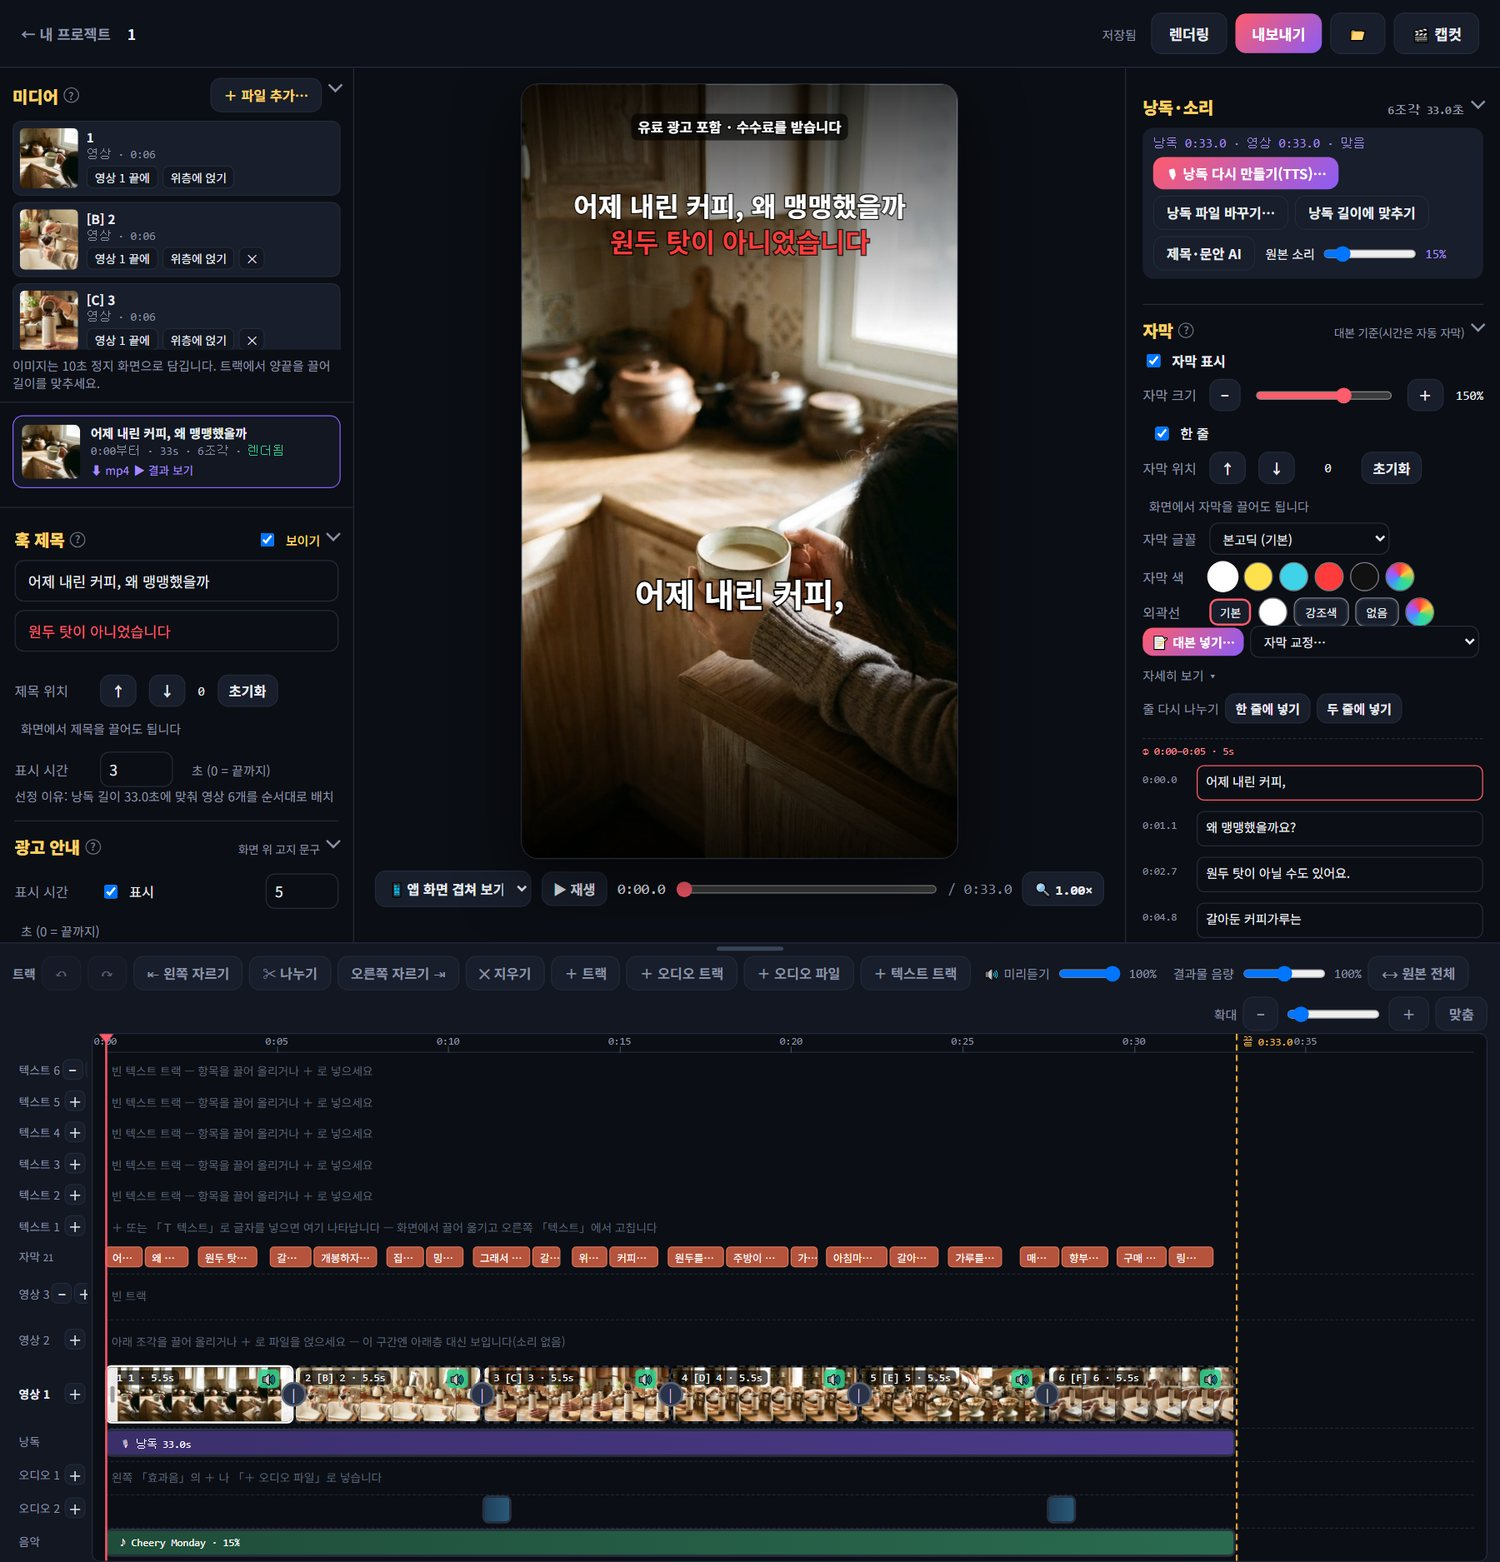
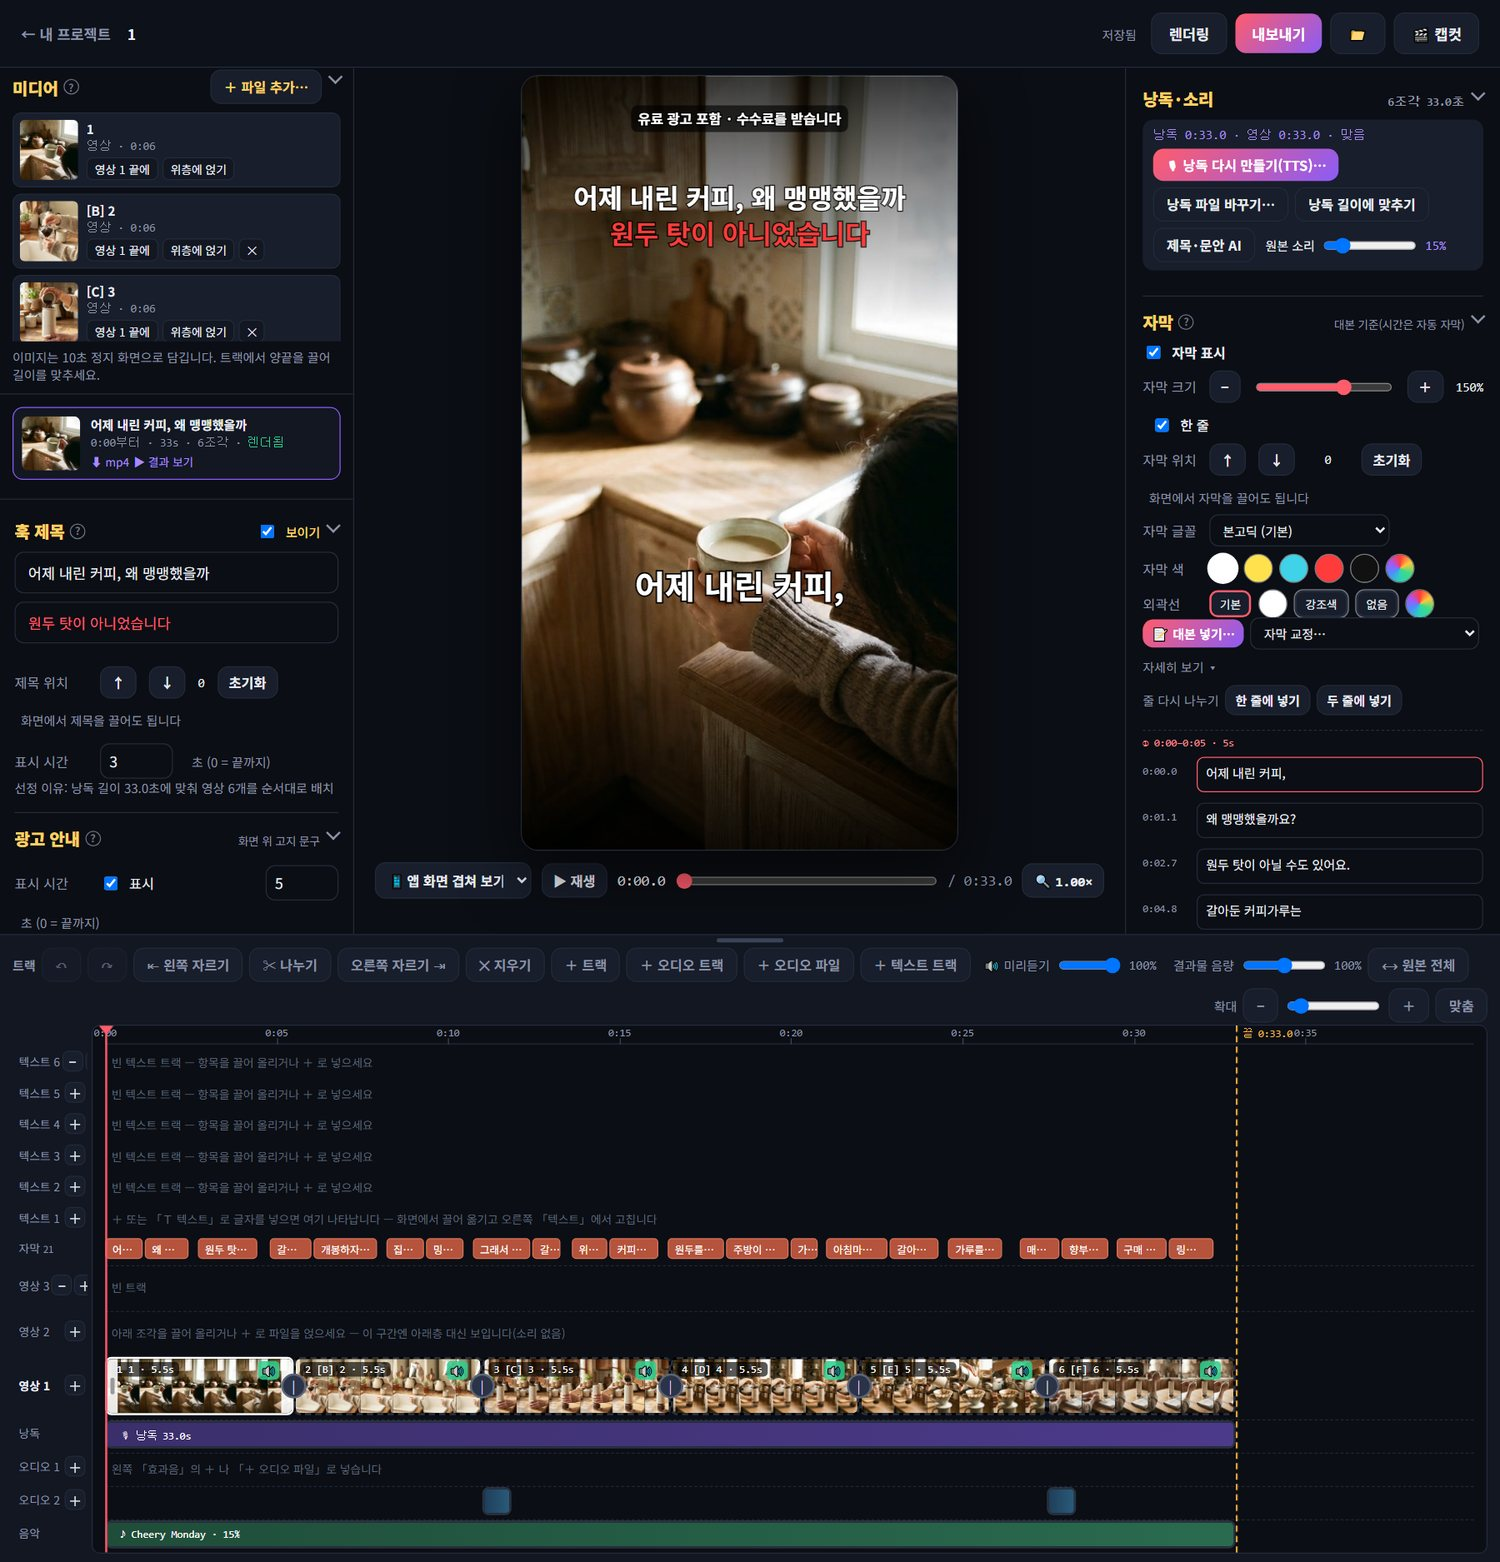
설명서: 자동 저장·미리보기 클릭 재생·텍스트 바로 고치기·가로 롱폼 차이 명시

diff --git a/guide/index.html b/guide/index.html
@@ -148,6 +148,12 @@ details{background:var(--bg2);border:1px solid var(--line);border-radius:10px;pa
 <h2 id="editor">5. <em>편집기</em> 둘러보기</h2>
 <div class="shot"><img src="img/04_editor.jpg" alt="편집기 — 왼쪽 설정 패널, 가운데 미리보기, 오른쪽 낭독·자막 패널, 아래 트랙" loading="lazy"><div class="cap">편집기 — 왼쪽 설정 패널, 가운데 미리보기, 오른쪽 낭독·자막 패널, 아래 트랙</div></div>
 <p>화면은 네 부분입니다. <b>왼쪽 패널</b>(칸별 설정) · <b>가운데 미리보기</b>(재생, 끌어서 옮기기) · <b>오른쪽 패널</b>(낭독·자막) · <b>아래 트랙</b>(캡컷식 타임라인). 무엇을 바꾸든 자동 저장됩니다(위쪽 「저장됨」 표시).</p>
+<div class="note"><b>자동 저장</b> — 저장 단추가 따로 없습니다. 무엇이든 바꾸고 손을 떼면 <b>0.7초 뒤</b> 프로젝트 폴더에 저장되고, 위쪽 표시가 「저장 중…」 → 「저장됨」으로 바뀝니다. 「저장됨」이 보이면 창을 닫아도 됩니다. 실행 취소(Ctrl+Z)도 같은 단위로 되돌립니다. 렌더한 결과 mp4 는 「렌더링」·「내보내기」를 눌러야 만들어집니다.</div>
+<ul>
+<li><b>미리보기 클릭</b> — 영상을 한 번 누르면 재생, 다시 누르면 정지. 가운데에 ▶/❚❚ 가 잠깐 떴다 사라집니다. 끌면 재생이 아니라 영상 위치 이동입니다.</li>
+<li><b>텍스트 두 번 클릭</b> — 미리보기의 텍스트를 두 번 누르면 그 자리에서 바로 글자를 고칩니다. 바깥을 누르거나 Esc 로 끝납니다.</li>
+<li><b>트랙 빨간 막대</b> — 잡고 화면 끝으로 끌면 트랙이 그쪽으로 따라 흐릅니다.</li>
+</ul>
 
 <h3 id="p-media">미디어 · 훅 제목 · 광고 안내 · 채널 · 업로드 문안</h3>
 <div class="shot"><img src="img/05_hook_aff.jpg" alt="훅 제목 칸과 그 아래 광고 안내 칸" loading="lazy"><div class="cap">훅 제목 칸과 그 아래 광고 안내 칸</div></div>
@@ -178,6 +184,7 @@ details{background:var(--bg2);border:1px solid var(--line);border-radius:10px;pa
 </ul>
 
 <h3 id="p-design">디자인</h3>
+<p class="small dim">세로 쇼츠(쇼핑 쇼츠·롱폼→쇼츠)에만 있습니다. <b>가로 롱폼 편집</b>은 영상이 16:9 화면을 꽉 채우는 고정 구성이라 이 절이 없고, 「쇼츠」라고 적힌 문구도 「영상」으로 보입니다.</p>
 <ul>
 <li><b>템플릿</b> — 「제목」(훅 제목 강조) / 「자막 팝」(자막이 크고 튀는 스타일).</li>
 <li><b>비율</b> — 영상 띠의 비율. 16:9·7:5·5:4·1:1·4:5·5:7·9:16. 9:16이면 영상이 세로 화면을 꽉 채우고, 그 외에는 위아래에 여백(띠 모드)이 생깁니다.</li>
@@ -204,7 +211,7 @@ details{background:var(--bg2);border:1px solid var(--line);border-radius:10px;pa
 
 <h2 id="render">7. <em>렌더</em> · 내보내기 · 캡컷</h2>
 <ul>
-<li><span class="btn">렌더링</span> — 편집 내용을 mp4로 만들어 프로젝트 안에 둡니다. 홈 카드나 왼쪽 목록의 「▶ 결과 보기」로 확인합니다.</li>
+<li><span class="btn">렌더링</span> — 편집 내용을 mp4로 만들어 프로젝트 안에 둡니다. 홈 카드나 왼쪽 목록의 「▶ 결과 보기」로 확인합니다. 가로 롱폼 편집에는 이 단추가 없고 「내보내기」만 있습니다(렌더가 길어 두 번 돌릴 일이 없습니다).</li>
 <li><span class="btn">내보내기</span> — 렌더한 뒤 내보내기 폴더에 mp4와 업로드 목록(제목·설명·태그)을 넣고 폴더를 엽니다. 폴더는 📁 단추로 바꿉니다. 롱폼→쇼츠는 「이 쇼츠 내보내기」와 「모든 쇼츠 내보내기」가 따로 있습니다.</li>
 <li><span class="btn">캡컷</span> — 이 쇼츠의 컷·자막·텍스트·낭독을 CapCut 프로젝트로 씁니다. CapCut을 닫은 상태에서 누르고, 다음에 CapCut을 열면 프로젝트 목록에 나타납니다. 캡컷에서 마저 손보고 싶을 때 씁니다.</li>
 <li>렌더 시간은 30초 쇼츠 기준 보통 1~3분입니다. 렌더 중에는 홈 카드에 진행률이 보이고 다른 프로젝트를 편집해도 됩니다.</li>
